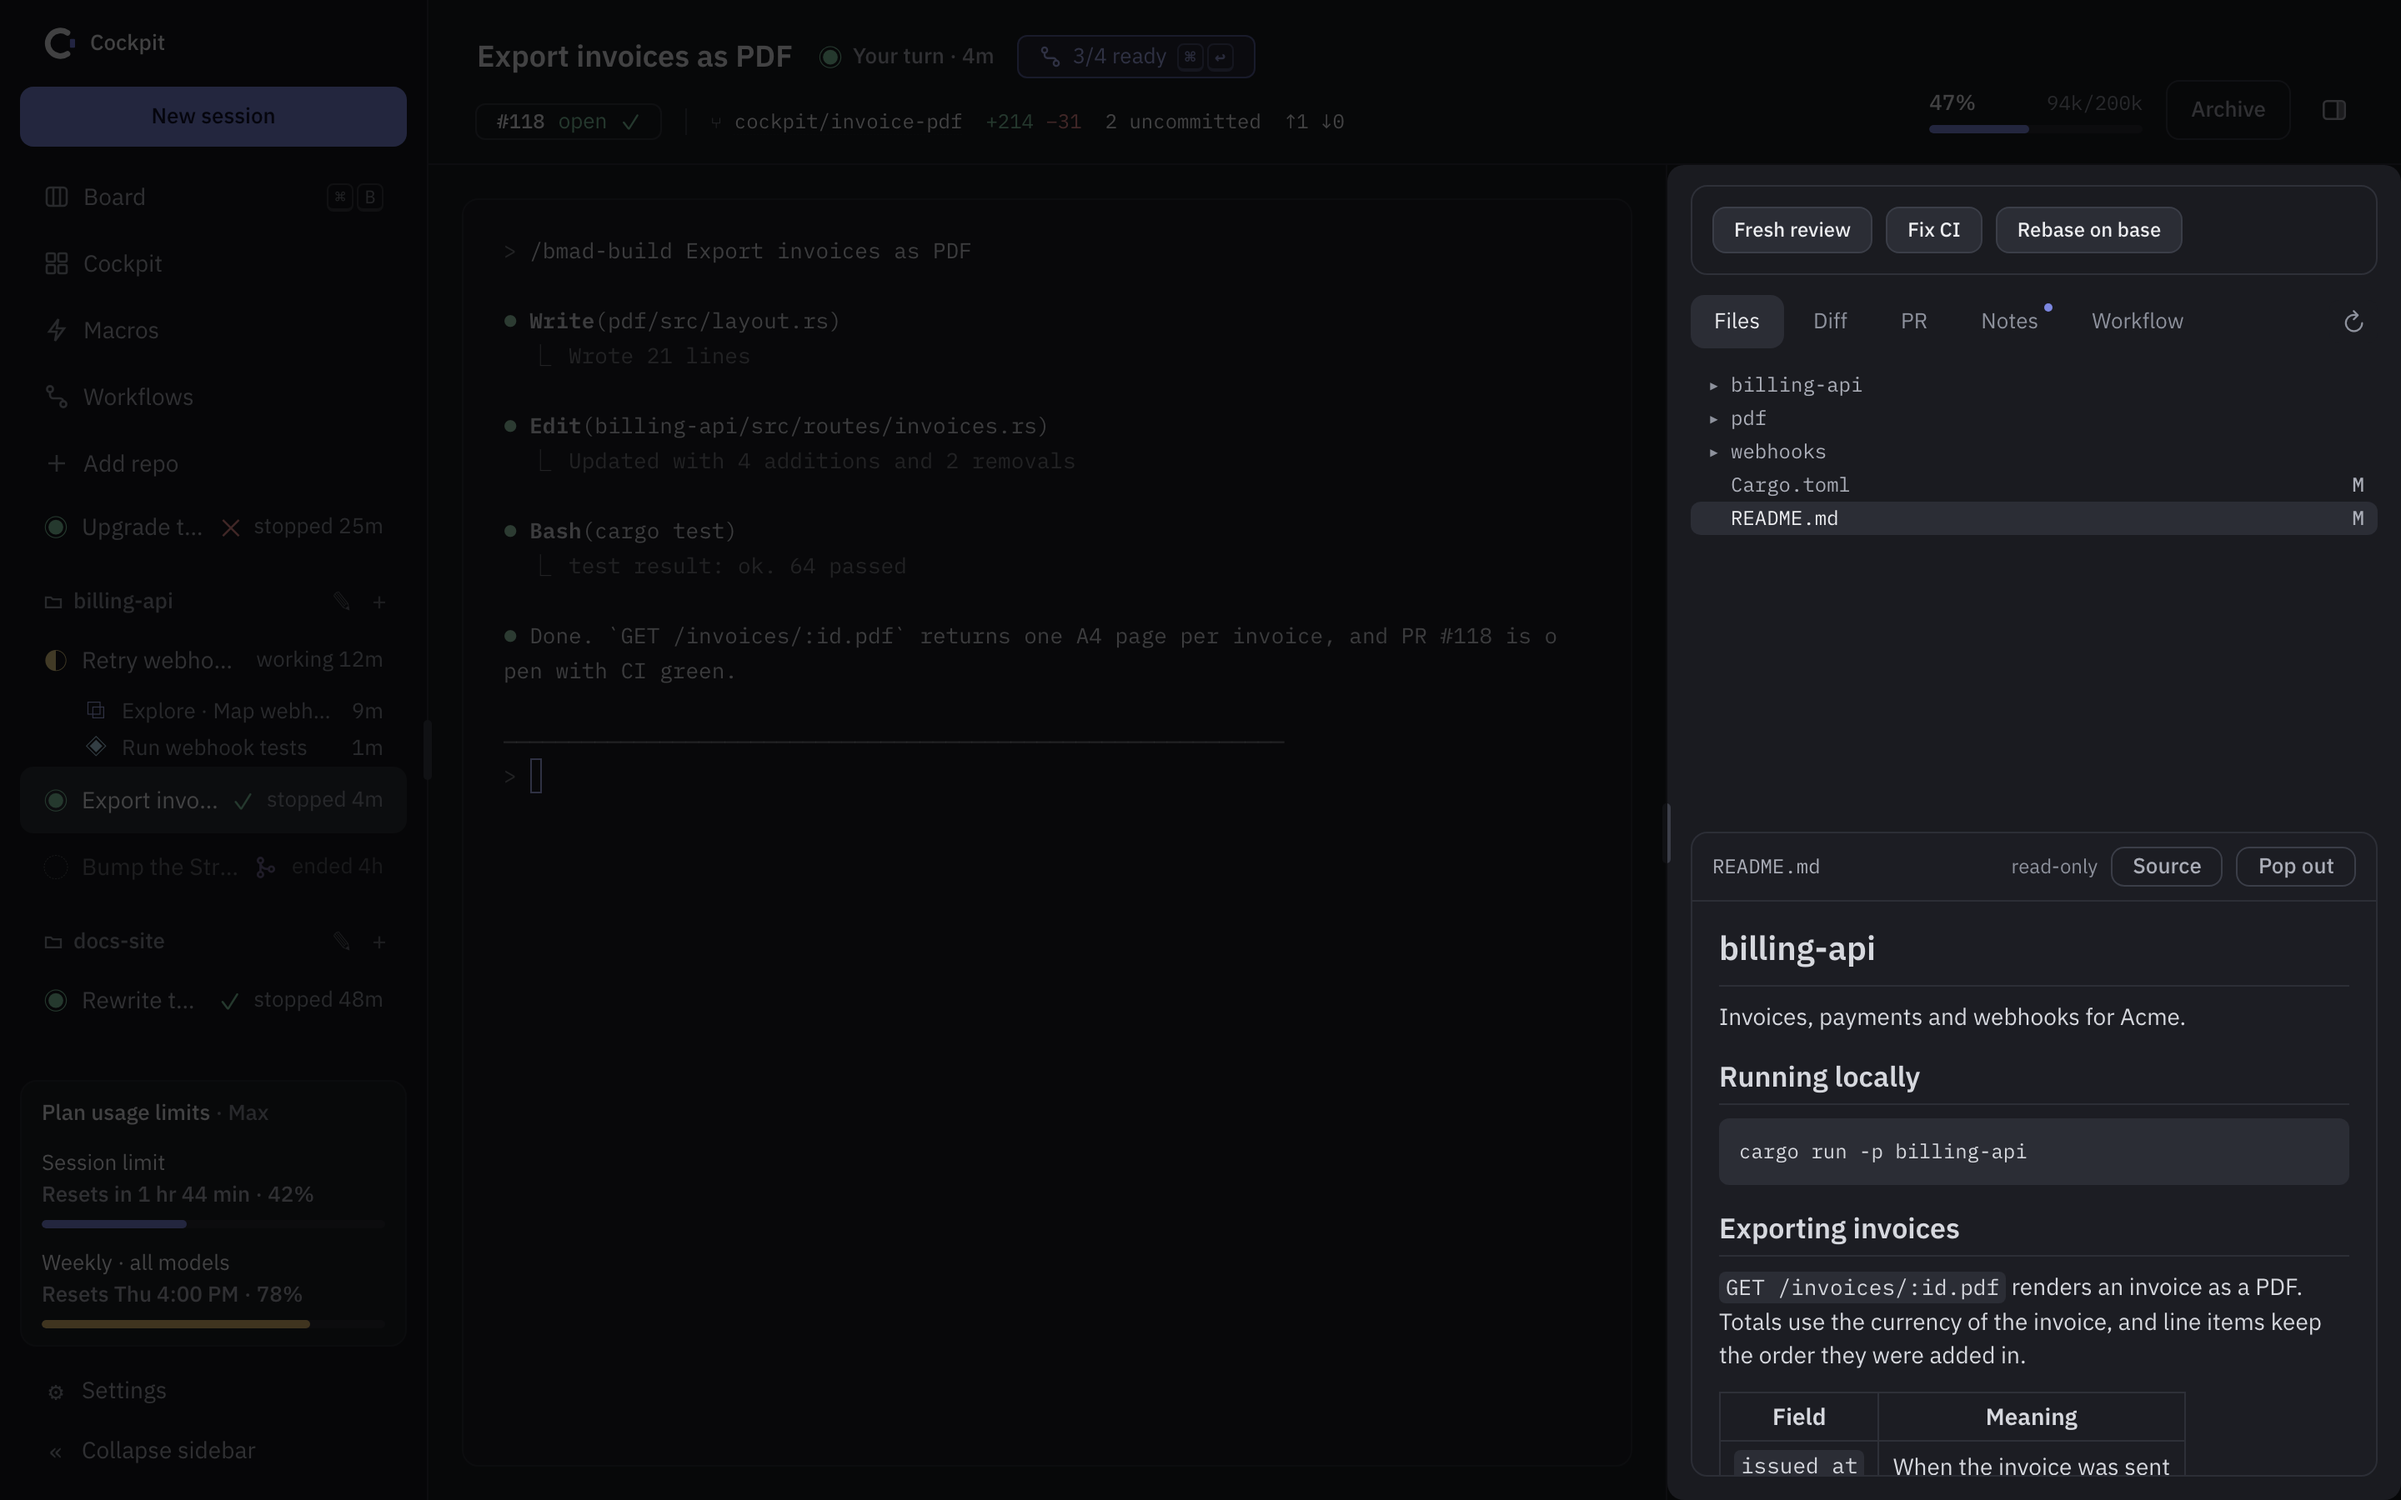
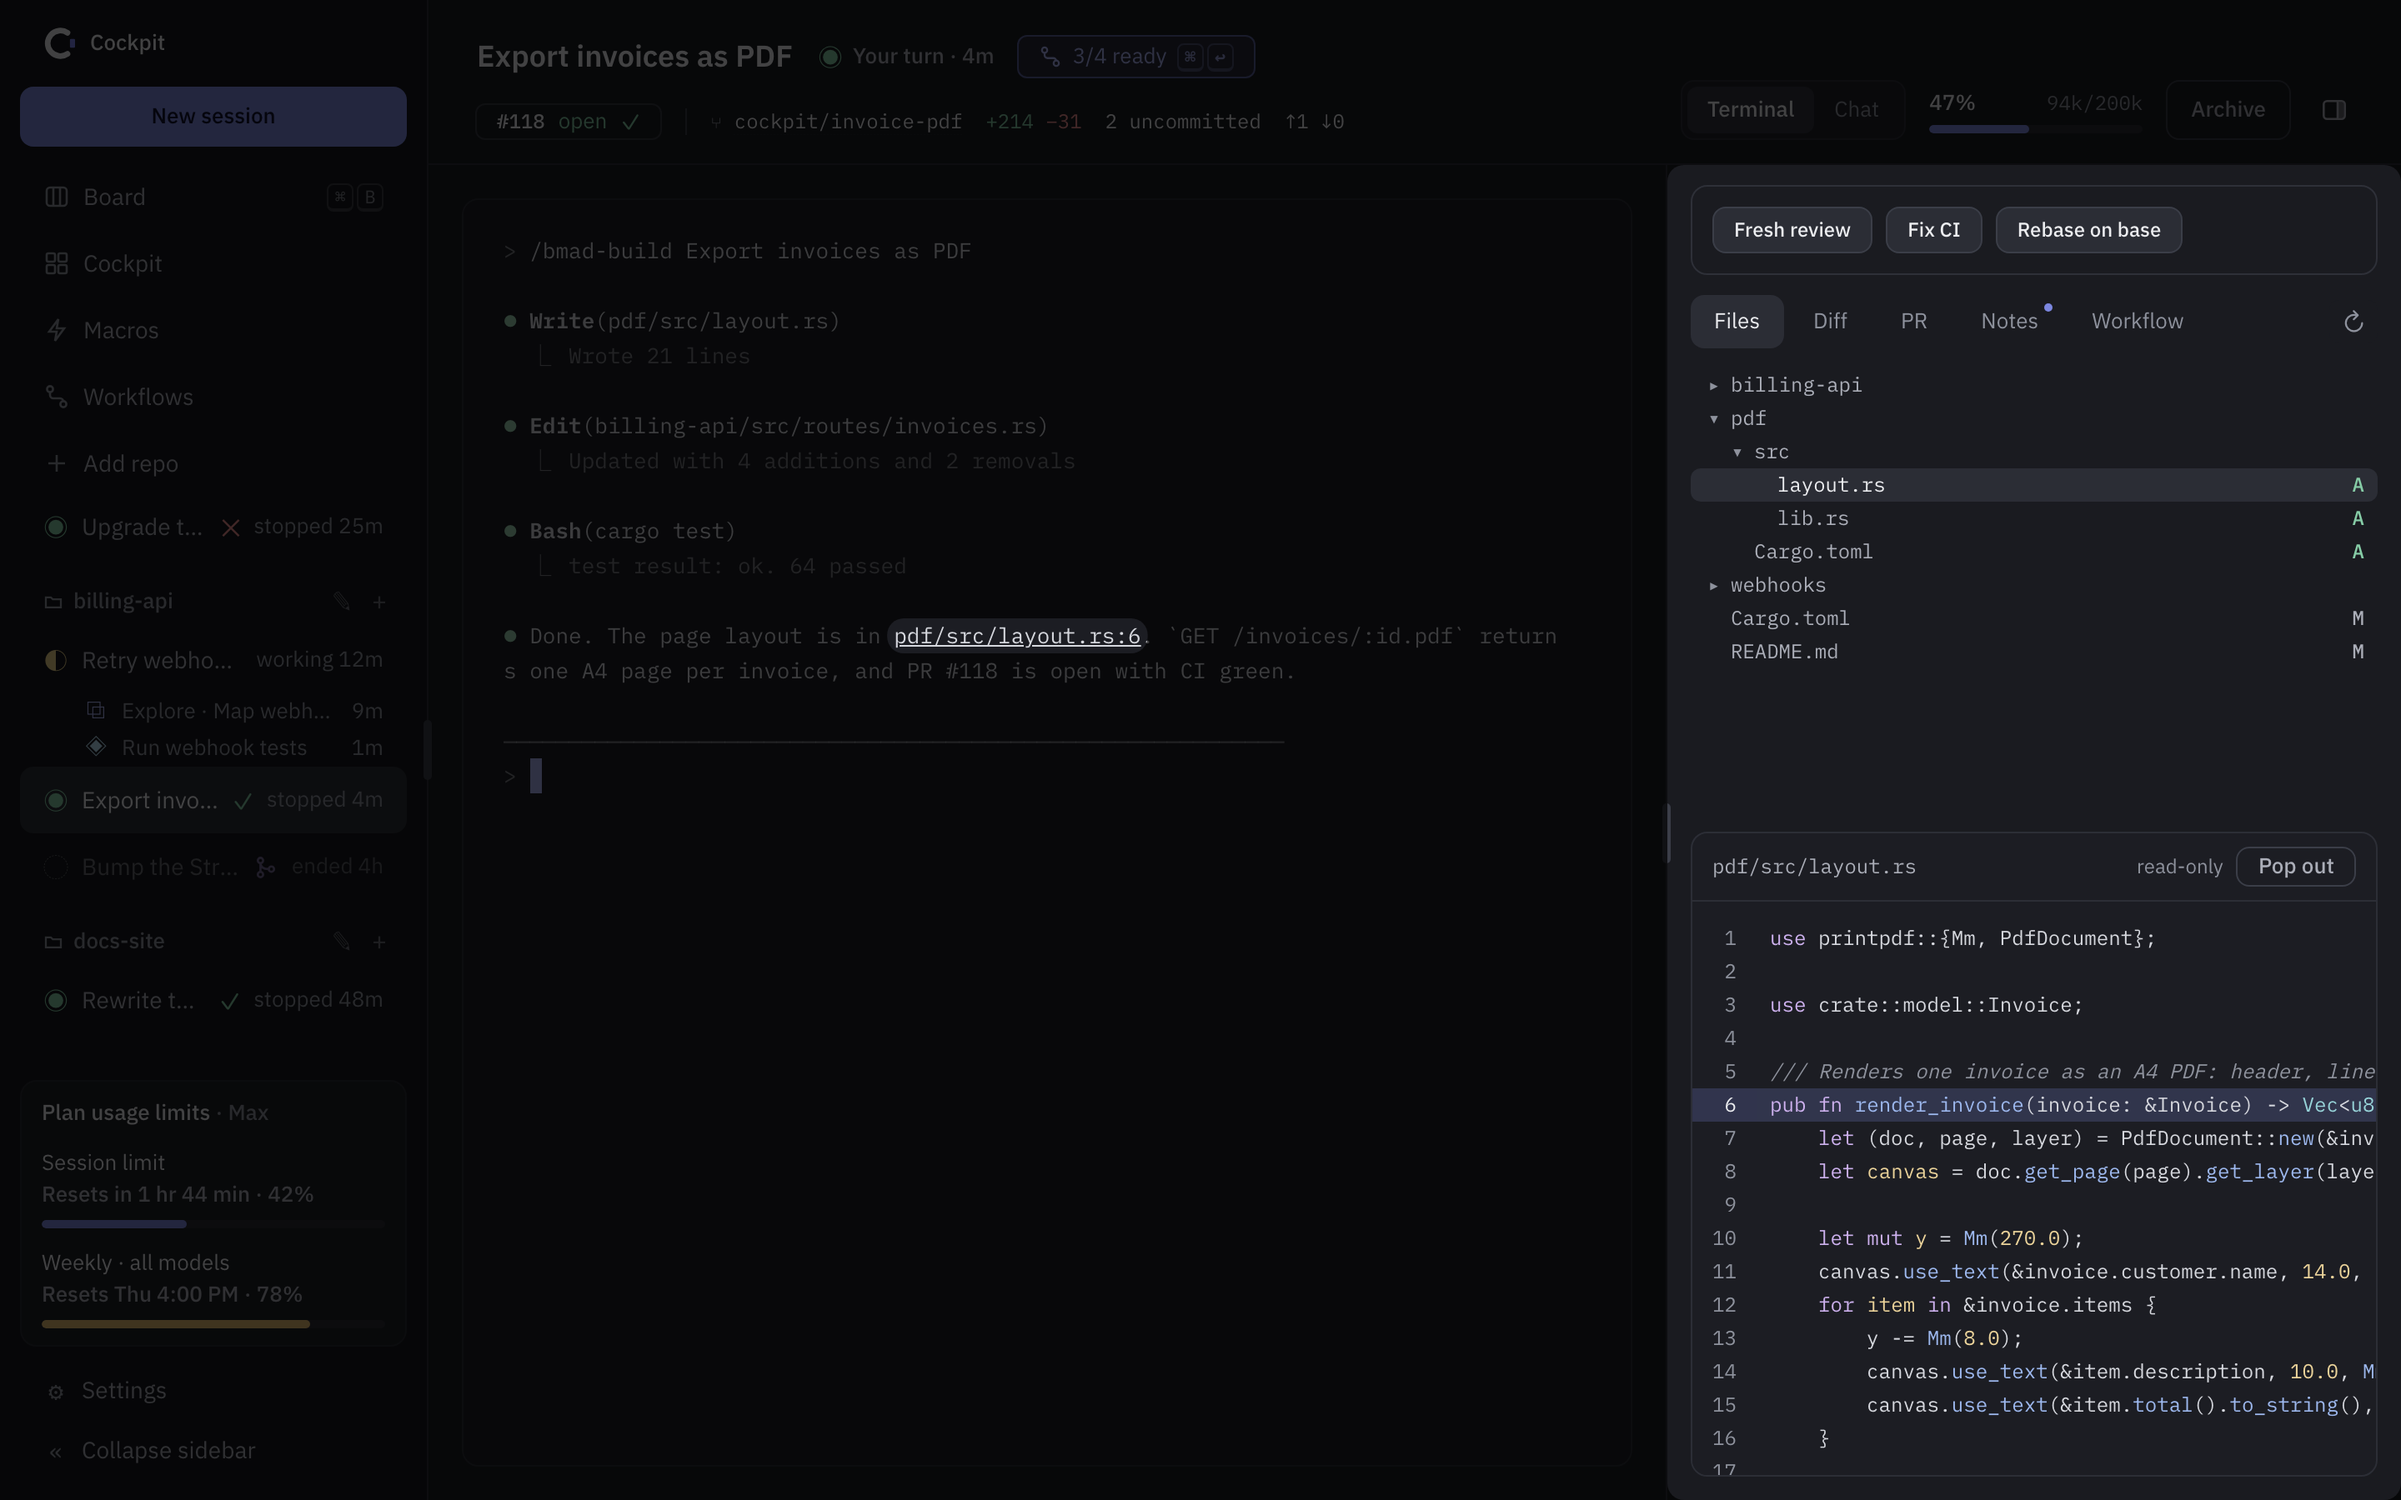
docs: cmd-click a file path in the terminal to open it in the Files tab (#12)
* docs: cmd-click a file path in the terminal to open it in the Files tab

* docs: paths in the chat open in the Files tab too

diff --git a/README.md b/README.md
@@ -107,7 +107,8 @@ Repos have notes too: click the pencil next to the repo name in the sidebar.
 ![Files tab](docs/screenshots/files.png)
 
 - Read-only file tree. `M` marks changed files, `A` added ones.
-- Syntax highlighting. Markdown is rendered; **Source** shows the raw text.
+- Syntax highlighting and line numbers. Markdown is rendered; **Source** shows the raw text.
+- <kbd>⌘</kbd>-click a file path in the terminal, like `src/App.tsx:120`, or click one in the chat, to open it here. The tree opens to the file, and the viewer scrolls to that line and highlights it.
 - **Pop out** shows the file over the terminal.
 
 ### Main branch
@@ -225,6 +226,7 @@ The installed app also shows its version and **Check for updates**.
 | <kbd>⌘</kbd> <kbd>↩</kbd> | Run the next workflow step |
 | <kbd>⌥</kbd> <kbd>⌘</kbd> <kbd>↩</kbd> | Skip the next workflow step |
 | <kbd>⇧</kbd> <kbd>↩</kbd> | New line in the terminal, without sending |
+| <kbd>⌘</kbd>-click a file path in the terminal | Open the file in the Files tab, at its line |
 
 ---
 
